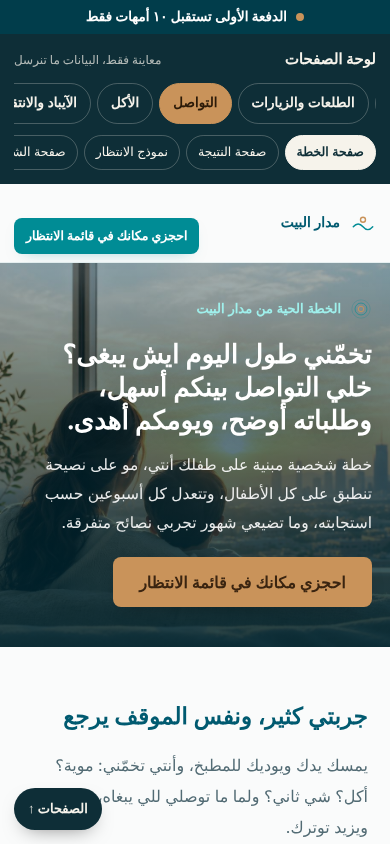
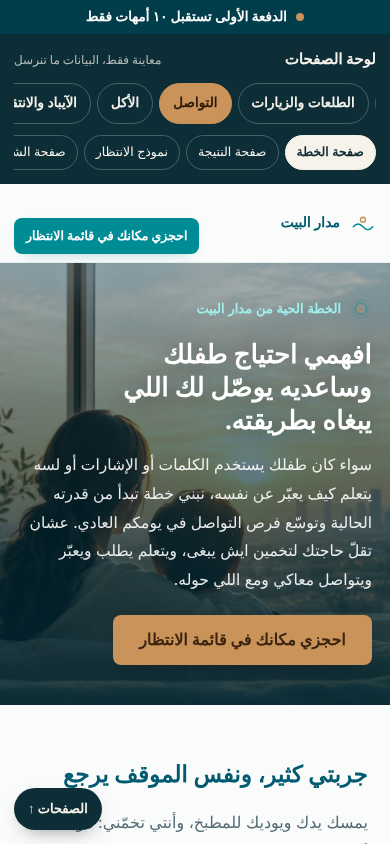
Apply client stage cards and per-situation headlines/subheadlines; no line ends with a comma; growth list marked as example
Claude-Session: https://claude.ai/code/session_01AkVcjsgEk6X3LzvvZDMGzU

Changed region(s): [[0.0, 0.3081, 1.0, 0.8626], [0.1538, 0.8934, 0.9538, 1.0], [0.8923, 0.3081, 0.9231, 0.3389]]

diff --git a/board_pages.html b/board_pages.html
@@ -550,6 +550,7 @@ body.cap-on .lp-nav{top:34px}
 
 /* curriculum: stages + direction of growth */
 .lp-lede.lp-maxp{margin-inline:auto;max-width:52ch}
+.lp-head,.lp-h,.lp-stage h3{text-wrap:balance}
 .lp-stages{list-style:none;padding:0;margin:26px auto 0;max-width:900px;display:grid;grid-template-columns:repeat(3,1fr);gap:16px;counter-reset:st}
 .lp-stage{background:var(--card);border:1px solid var(--line);border-top:3px solid var(--teal);border-radius:16px;padding:18px 18px 16px}
 .lp-stage-k{display:inline-block;font-family:"El Messiri";font-weight:700;font-size:12.5px;color:var(--gold-deep);background:rgba(201,147,90,.14);border-radius:999px;padding:2px 11px;margin-bottom:8px}
@@ -608,31 +609,38 @@ const STANDALONE_LANDING = false;
    ============================================================ */
 const FOCUS = {
   A:{ key:'sleep',
-      head:'كل ليلة نفس المعركة؟ خلي وقت النوم أهدى، وروتينه أوضح، ولياليكم أخف.',
+      head:'ليالي أهدأ<br>ووقت نوم ما يستنزفك كل ليلة.',
+      sub:'بدل ما تجربي نصيحة جديدة كل ليلة، نبني لك طريقة تناسب نوم طفلك وروتينه واحتياجه. نبدأ من اللي يصعّب عليه النوم، ونراجع الخطة كل أسبوعين عشان تعرفي على ايش نكمّل وايش نعدّل، إلى أن يصير وقت النوم أهدأ عليكم.',
       problem:'كل ليلة نفس القصة: البيجاما، والسرير، وبعدها ساعة وأكثر وأنتي تحاولي. جربتي نصيحة من مقطع، وروتين من حساب ثاني، وبعد كم ليلة رجع كل شي مثل ما كان. وآخر اليوم ما يبقى لك وقت ولا طاقة لنفسك.',
       invite:'تخيلي يجي وقت النوم وأنتي عارفة خطوتك، بدل ما تجربي شي جديد كل ليلة.' },
   B:{ key:'outings',
-      head:'كل عزيمة صارت همّ؟ روحي وأنتي مرتاحة، واستمتعي بوقتك مع أهلك.',
+      head:'خلي العزايم وقت تستمتعوا فيه مع أهلك<br>مو مصدر قلق قبل كل زيارة.',
+      sub:'جهّزي طفلك للطلعات والزيارات بطريقة تناسبه هو، نرتّب خطوات عملية للمواقف اللي تتعبكم، ونطوّرها مع كل تجربة، عشان تصير الزيارات جزء من حياتكم بدل ما تكون مصدر قلق قبل ما تبدأ.',
       problem:'قبل العزيمة بيوم وأنتي تفكري: كيف بيكون؟ ومتى نرجع؟ وأول ما تدخلوا، تقضي الوقت تلحقيه من غرفة لغرفة، والسوالف تفوتك. وترجعي البيت تعبانة، وكأنك ما شفتي أهلك.',
       invite:'تخيلي تجهزي للعزيمة وأنتي عارفة ايش يساعد طفلك، بدل ما تروحي وأنتي شايلة همّ.' },
   C:{ key:'communication',
-      head:'تخمّني طول اليوم ايش يبغى؟ خلي التواصل بينكم أسهل، وطلباته أوضح، ويومكم أهدى.',
+      head:'افهمي احتياج طفلك<br>وساعديه يوصّل لك اللي يبغاه بطريقته.',
+      sub:'سواء كان طفلك يستخدم الكلمات أو الإشارات أو لسه يتعلم كيف يعبّر عن نفسه، نبني خطة تبدأ من قدرته الحالية وتوسّع فرص التواصل في يومكم العادي. عشان تقلّ حاجتك لتخمين ايش يبغى، ويتعلم يطلب ويعبّر ويتواصل معاكي ومع اللي حوله.',
       problem:'يمسك يدك ويوديك للمطبخ، وأنتي تخمّني: موية؟ أكل؟ شي ثاني؟ ولما ما توصلي للي يبغاه، يزيد بكاه ويزيد توترك.',
       invite:'تخيلي يكون عندك طريقة واضحة تساعدي فيها طفلك يوصل لك اللي يبغاه، بدل التخمين طول اليوم.' },
   D:{ key:'food',
-      head:'نفس الثلاث أكلات كل يوم؟ خلي الأكل الجديد يدخل صحنه بالتدريج، وبدون معارك.',
+      head:'خيارات أكل أكثر<br>ووجبات ما تتحول لمعركة على كل لقمة.',
+      sub:'مو مطلوب من طفلك يتقبل كل الأكلات دفعة واحدة، ولا منك تدخلي في معركة معاه على كل وجبة. نبني خطوات تبدأ من الأكلات اللي يتقبلها حاليًا، ونعرّفه على خيارات جديدة بالتدريج، بما يناسب تقبّله واحتياجه.',
       problem:'نفس الأكلات كل يوم، وأي أكل جديد تحطيه في صحنه يرفضه. تحاولي تقنعيه، وتحاولي تخبي الجديد بين اللي يحبه، ووقت الأكل نفسه صار همّ.',
       invite:'تخيلي يكون عندك خطوات واضحة لوقت الأكل، تحافظ على أكلاته المعروفة وتدخّل الجديد بالتدريج.' },
   E:{ key:'transitions',
-      head:'كل ما تطفي الآيباد تبدأ معركة؟ خلي الانتقال أوضح له، وأسهل عليكم.',
+      head:'طفلك يطفي الآيباد وينتقل للي بعده<br>بدون ما تبدأ معركة كل مرة.',
+      sub:'نبني طريقة تناسب طفلك في استخدام الآيباد وإطفائه والانتقال للنشاط اللي بعده. ونشتغل على المواقف اللي تتكرر عندكم، عشان ما تضطري تعيدي نفس المواجهة من البداية كل ما جا وقت إطفاء الآيباد.',
       problem:'تقولي له خلاص نطفي الآيباد، وأنتي عارفة ايش بيصير بعدها. جربتي تنبهيه قبل بخمس دقايق، وجربتي العد، وكل مرة تنتهي بنفس الطريقة. وصرتي تأجلي الإطفاء عشان تتجنبي اللي بعده.',
       invite:'تخيلي تطفي الآيباد وأنتي عارفة كيف تجهزيه للي بعده، بدل ما تستعدي لمعركة.' },
   F:{ key:'emotions',
-      head:'طول اليوم وأنتي على أعصابك؟ خلي يومكم أهدى، وتعاملي مع انفعاله وأنتي عارفة ايش تسوي.',
+      head:'انفعالات أقل حدّة<br>وتعرفي كيف تتعاملي مع طفلك وقتها.',
+      sub:'بدل ما تركّزي بس على إيقاف الانفعال بعد ما يبدأ، نفهم مع بعض ايش يضغط على طفلك خلال يومه، ونتعرف على العلامات اللي تسبق انفعاله. بعدها نبني خطوات تساعدك تخففي الضغوط، وتسانديه وقت الانفعال وبعده، بما يناسب احتياجه.',
       problem:'يصحى متضايق، ويرمي الأغراض، وما يهدأ بسهولة. وأنتي طول اليوم تحاولي تتوقعي ايش بيضايقه بعدها، وكل يوم تحسي إنك على أعصابك.',
       invite:'تخيلي تعرفي ايش يسبق انفعاله، وعندك خطوات واضحة تساعديه فيها، بدل ما تكوني على أعصابك طول اليوم.' },
   default:{ key:'',
-      head:'نفس المواقف تتكرر كل يوم؟ وقفي الحلول المتفرقة، وابدئي بخطة تناسب طفلك.',
+      head:'افهمي طفلك أكثر<br>واعرفي كيف تساعديه في حياته اليومية.',
+      sub:'مو لازم تنتظري إلين تظهر مشكلة كبيرة عشان تبدئي. نبدأ من شخصية طفلك واهتماماته وطريقته في التفاعل، ونفهم ايش يساعده يرتاح ويتواصل ويتعلم. بعدها نبني خطة تبدأ من أكثر شي يحتاج نشتغل عليه الآن، وتتطور مع طفلك ومع حياتكم اليومية.',
       problem:'نفس المواقف تتكرر كل يوم. تجربي نصيحة من مقطع، وطريقة من حساب ثاني، وبعد كم يوم ترجعي لنفس النقطة. وكل مرة تبدأي من الصفر.',
       invite:'تخيلي يكون عندك خطة واضحة للموقف اللي يشغلك، تعرفي فيها خطوتك الجاية وما تبدأي من الصفر كل مرة.' }
 };
@@ -646,39 +654,39 @@ const FOCUS = {
    ============================================================ */
 const CURRICULUM = {
   A:{ area:'وقت النوم',
-      stages:[['نرتب الساعة اللي قبل النوم','ترتيب ثابت كل ليلة، حركة بدري في اليوم، وهدوء أكثر آخر الليل.'],
-              ['نثبت الوقت والمكان','نفس البداية كل ليلة، ونفس الطريقة مع أي أحد ينومه.'],
-              ['القيام بالليل والليالي الصعبة','رد جاهز لما يقوم، وخطة لليلة اللي يخرب فيها كل شي.']],
+      stages:[['من بداية روتين النوم إلى السرير بهدوء أكثر','نرتّب روتين النوم بما يناسب يوم طفلك واحتياجه، عشان تقل مقاومته لوقت النوم وما تضطري تدخلي معاه في مفاوضات طويلة كل ليلة.'],
+              ['نفس روتين النوم مع كل اللي ينوّموه','طريقة واضحة يتبعها الأب والجدة وأي شخص ينوّم طفلك، عشان يقدر يتبع نفس الروتين حتى لو ما كنتي أنتي اللي تنوّميه.'],
+              ['طفلك يرجع ينام بعد ما يصحى بالليل','نحدد كيف تتعاملي مع استيقاظ طفلك بالليل، ونرتّب خطوات تساعده يرجع للنوم بدل ما تطول فترة صحوته وتتحول لباقي الليل.']],
       growth:['التحضير للنوم يمشي بنفس الخطوات كل ليلة','ينام في سريره هو','يقوم بالليل أقل من قبل','الوقت من "يلا ننام" لين ينام يقصر','الساعة اللي قبل النوم ما عادت أصعب ساعة في يومك'] },
   B:{ area:'الطلعات والزيارات',
-      stages:[['نبدأ بالمكان الأسهل','زيارة قصيرة، لمكان يعرفه، ووقت طلعة متفق عليه.'],
-              ['نطول الوقت ونوسع الأماكن','أماكن أقل ألفة، ناس أكثر، ووقت أطول.'],
-              ['المناسبات الطويلة','والأماكن اللي ما تقدري تتحكمي فيها، والرد لما يتعب في نصها.']],
+      stages:[['تطلعوا من البيت بدون ما تنتهي الطلعة بسرعة','نبدأ بأماكن مألوفة وطلعات قصيرة، ونجهّز طفلك للخروج بالتدريج، عشان يقدر يقضي وقت أطول برا البيت وتستمتعوا بطلعتكم.'],
+              ['طفلك يتأقلم مع أماكن وأشخاص جدد','نوسّع تجارب طفلك بالتدريج، من أماكن وأشخاص يعرفهم إلى أماكن جديدة وعدد أكبر من الناس، عشان تصير الطلعات والتجارب الجديدة أسهل عليه.'],
+              ['استعداد للعزايم والمناسبات الطويلة','نجهّز طريقة تناسب الزيارات الطويلة والأماكن اللي ما تقدري تتحكمي في تفاصيلها، عشان تقدري تكمّلي الزيارة وتتعاملوا مع المواقف الصعبة بثقة أكبر.']],
       growth:['يدخل المكان بدون ما يوقف وقت طويل عند الباب','يقعد في المناسبة وقت أطول قبل ما يطلب يرجع','يقول إنه تعب بطريقة متفقين عليها، بدل ما ينهار','الطلعة من المكان صارت أسهل من قبل','ما عدتي ترتبي يومك على أساس تتجنبي الطلعات'] },
   C:{ area:'التواصل',
-      stages:[['نفتح له مواقف يطلب فيها','ما تسبقيه للي يبغاه، وتعطيه لحظة يطلب قبل ما تعطيه.'],
-              ['ننقلها لناس ثانية','أبوه، جدته، أي أحد حوله، بنفس الطريقة.'],
-              ['يبدأ هو','حتى في المواقف اللي يكون فيها تعبان أو متضايق.']],
+      stages:[['طفلك يقدر يطلب اللي يبغاه ويوصّل احتياجه','نبني طريقة تواصل تناسب قدرة طفلك الحالية، سواء بالكلام أو الإشارات أو غيرها، عشان يقدر يطلب أكله أو لعبته أو مساعدتك بدل ما يضطر يعبّر عن احتياجه بالبكاء أو الصراخ.'],
+              ['طفلك يقدر يوصّل احتياجه لأكثر من شخص','نساعد الأب والجدة والإخوان يتعرفوا على طريقة تواصل طفلك ويستخدموها معاه، عشان يقدر يوصّل لهم احتياجه ويتواصل مع أكثر من شخص في حياته اليومية.'],
+              ['طفلك يبدأ يطلب ويتواصل من نفسه','نرتّب مواقف يومية تعطي طفلك فرص يبدأ فيها التواصل من نفسه، بدال ما ينتظر سؤالك أو محاولتك تفهمي ايش يبغى كل مرة.']],
       growth:['يطلب منك اللي يبغاه بكلمة أو إشارة، مو بس يسحب يدك','يبدأ هو الكلام أو الإشارة، مو بس يرد','يحاول مرة ثانية إذا ما فهمتيه من أول مرة','الكلمات أو الإشارات اللي يستخدمها لحاله تزيد','صرتي تعرفي إنه تعبان قبل ما يبكي'] },
   D:{ area:'الأكل',
-      stages:[['نبدأ من أكلاته المعروفة','الطاولة وجو الأكل، قبل الأكل نفسه.'],
-              ['نقرب الجديد بدون ما نطلب منه ياكله','موجود قدامه، يشوفه، يلمسه، بدون ضغط يذوقه.'],
-              ['الذوق، والأكل برا البيت','بيت الأهل، والمدرسة، والمطعم.']],
+      stages:[['وجبات تناسب طفلك وتقلل الضغط وقت الأكل','نبدأ من الأكلات اللي يتقبلها طفلك، ونرتّب الوجبة وطريقة تقديم الأكل بما يناسبه، عشان تقدري تقدمي له أكله بدون ضغط ومحاولات متواصلة لإقناعه بالأكل.'],
+              ['طفلك يتعرّف على أكلات جديدة ويتقبل وجودها','نقدّم الأكلات الجديدة بالتدريج، ونبدأ بتعويد طفلك على رؤيتها ولمسها والتعامل معاها قبل ما نطلب منه يتذوقها، عشان تزيد ألفته معاها بدون ما يحس إنه مجبر يجربها.'],
+              ['طفلك يتقبل خيارات أكل أكثر خارج البيت','نبني على اللي يتقبله طفلك في البيت، ونشتغل على نقل التجربة لمواقف ثانية مثل بيت الأهل والمدرسة والمطعم، عشان تزيد فرص تقبّله للأكل في أماكن مختلفة.']],
       growth:['يقعد على الطاولة والأكل الجديد قدامه، حتى لو ما أكله','يلمسه أو يقربه من وجهه','الأكلات اللي يقبلها تزيد، ولو وحدة','وقت الأكل يخلص بدون معركة','ما عدتي تطبخي وجبتين'] },
   E:{ area:'الانتقال وإطفاء الآيباد',
-      stages:[['نخلي النهاية متوقعة','وقت معروف، تنبيه ثابت، وشي جاهز بعدها.'],
-              ['نوحد الطريقة بين الكبار','وننقلها لانتقالات ثانية في يومه.'],
-              ['الانتقال الأصعب','ولحظة الرفض لما تصير رغم كل شي.']],
+      stages:[['طفلك يطفي الآيباد وينتقل للنشاط اللي بعده بمقاومة أقل','نرتّب وقت استخدام الآيباد، وطريقة التنبيه قبل إطفائه، والنشاط اللي يجي بعده، عشان يعرف طفلك ايش بيصير ويكون الانتقال أسهل عليه.'],
+              ['طفلك يتقبل إطفاء الآيباد مع أشخاص مختلفين','نبني طريقة واضحة لإطفاء الآيباد والتعامل مع الانتقال للنشاط اللي بعده، عشان ما تتكرر نفس المواجهة كل مرة يتغير فيها الشخص المسؤول عنه.'],
+              ['استعداد للانتقالات الأصعب','نشتغل على الانتقالات اللي تسبب لكم أكبر صعوبة، مثل إيقاف اللعب أو الخروج من البيت أو وقت الاستحمام، عشان يقدر طفلك ينتقل من نشاط للثاني بمقاومة أقل.']],
       growth:['يسمع التنبيه ويكمل بدون توتر','يوقف بنفسه، حتى لو بعد تردد','الرفض صار أقصر من قبل','يرجع لحاله أسرع بعد الانتقال الصعب','لحظة إطفاء الآيباد ما عاد فيها جدال كل مرة'] },
   F:{ area:'الغضب والانفعال',
-      stages:[['نخفف حمل يومه','النوم، والحركة، والشاشات، ويوم متوقع أكثر.'],
-              ['نشوف العلامة قبل الانفجار','ونعطيه طريقة يعبر فيها قبلها.'],
-              ['اللحظة نفسها، والرجوع بعدها','رد ثابت، وطريقة ترجعوا فيها لبعض.']],
+      stages:[['نخفف الضغوط اللي تخلي طفلك ينفعل خلال اليوم','نراجع تفاصيل يوم طفلك، مثل النوم والشاشات والأنشطة، ونحدد الأشياء اللي تزيد الضغط عليه، عشان نعدّلها ونخفف تراكم التوتر اللي يسبق الانفعال.'],
+              ['طفلك يعبّر عن انزعاجه قبل ما يوصل للصراخ','نتعرف على العلامات اللي تظهر قبل انفعال طفلك، ونبني طرق تساعده يعبّر عن انزعاجه أو احتياجه بدري، قبل ما يوصل الموقف للصراخ.'],
+              ['طفلك يتجاوز نوبات الانفعال ويرجع ليومه','نرتّب خطوات تتعاملي فيها مع طفلك وقت الانفعال وبعده، عشان تساعديه يهدأ ويتجاوز الموقف ويرجع لنشاطه بدل ما يظل أثره مستمر على باقي يومكم.']],
       growth:['تشوفي علامة عليه قبل ما ينفجر','يعبر بكلمة أو إشارة قبل ما يوصل للصراخ','الانفجار صار يخلص أسرع','يرجع لحاله بدون ما ياخذ اليوم كله','تحسي إن الموقف جاي قبل ما يصير'] },
   default:{ area:'يومكم',
-      stages:[['نبني وقت ثابت بدون طلبات','وقت كل يوم تكونوا فيه مع بعض، يرتاح عليه يومكم كله.'],
-              ['نمسك النمط','ايش اللي يخلي اليوم الحلو حلو، ونكرره بقصد.'],
-              ['نختار التحدي اللي يستاهل','ونشتغل عليه بخطة خاصة فيه.']],
+      stages:[['تعرفي كيف تدخلي عالم طفلك وتلفتي انتباهه','نبدأ من الأشياء اللي تجذب طفلك، ونتعرف على الطريقة اللي تخليه يتفاعل معاكي ويستمتع بوجودك، عشان تقدري تبني معاه لحظات تواصل.'],
+              ['تعرفي ايش يخلي أيام طفلك أسهل','نراجع الأيام والمواقف اللي يكون فيها طفلك مرتاح ومتفاعل أكثر، ونحدد ايش يساعدها تمشي بشكل أفضل، عشان نقلل المواقف اللي تصعّب يومكم وما يكون اليوم الحلو مجرد صدفة.'],
+              ['نبدأ بالموقف اللي يتعبكم أكثر','نحدد أكثر موقف يسبب لكم ضغط في يومكم، ونبني له خطة بخطوات تناسب طفلك وظروف بيتكم، عشان تعرفي ايش تسوي في الموقف من بدايته، وكيف تتعاملي مع أصعب لحظاته، وايش الخطوة اللي بعدها.']],
       growth:['في وقت كل يوم تكونوا فيه مع بعض بدون طلبات','يومه صار متوقع أكثر','يطلب منك أشياء أكثر من قبل','المواقف الصعبة في اليوم صارت أقل','صار في وقت في يومك لنفسك'] }
 };
 const STAGE_LABELS = ['أول شي','بعدها','وبعدها'];
@@ -692,8 +700,8 @@ function curriculumHTML(key){
         ${c.stages.map(([t,d],i)=>`<li class="lp-stage"><span class="lp-stage-k">${STAGE_LABELS[i]}</span><h3>${t}</h3><p>${d}</p></li>`).join('')}
       </ol>
       <div class="lp-growth">
-        <h3>اتجاه النمو</h3>
-        <p class="lp-growth-sub">علامات إن الخطة ماشية في الاتجاه الصح. مو جدول، ومو لازم تجي بالترتيب.</p>
+        <h3>اتجاه النمو (مثال)</h3>
+        <p class="lp-growth-sub">هذي أمثلة. اتجاه النمو لطفلك يتحدد من إجاباتك على الأسئلة، ويختلف من طفل لطفل، وما يمشي بجدول.</p>
         <ul>${g}</ul>
       </div>
       <p class="lp-pull lp-pull-c">الترتيب والخطوات مبنية على طفلك أنتي.</p>`;
@@ -1389,6 +1397,9 @@ const CTA_LABEL = "احجزي مكانك في قائمة الانتظار";
 /* Owner placeholders like [للتأكيد: ...] are shown as-is, highlighted. */
 const markTbc = (h)=> h.replace(/\[للتأكيد:[^\]]*\]/g, m=>`<span class="tbc">${m}</span>`);
 
+/* keep the last two words of each headline line together (no single orphan word) */
+const headHTML = (h)=> String(h).split('<br>').map(seg=>seg.replace(/ ([^ ]+)$/,'\u00a0$1')).join('<br>');
+
 function problemHTML(key, sitFree){
   const f = FOCUS[key] || FOCUS.default;
   const mine = sitFree ? `<p class="lp-p lp-herline">${G_FREE_LINE(escapeHtml(sitFree))}</p>` : '';
@@ -1398,7 +1409,7 @@ function problemHTML(key, sitFree){
 function landingHTML(ctx){
   const c = Object.assign({key:'default', sub:'standard', sitFree:'', q15:''}, ctx||{});
   const f = FOCUS[c.key] || FOCUS.default;
-  const sub = SUBS[c.sub] || SUBS.standard;
+  const sub = f.sub || SUBS[c.sub] || SUBS.standard;
   // every CTA opens the on-page waitlist form (CONFIG.waitlistUrl is legacy and unused)
   const cta = (cls='') => `<button type="button" class="lp-cta ${cls}" data-wl>${CTA_LABEL}</button>`;
   const chk = `<svg viewBox="0 0 24 24" fill="none" stroke="#008C95" stroke-width="2.6" stroke-linecap="round" stroke-linejoin="round"><path d="M20 6 9 17l-5-5"/></svg>`;
@@ -1465,7 +1476,7 @@ function landingHTML(ctx){
       </div>
       <div class="lp-hero-inner">
         <div class="lp-eyebrow">${SVG.ripple('rp')}<span>الخطة الحية من مدار البيت</span></div>
-        <h1 class="lp-head" id="lp-head">${f.head}</h1>
+        <h1 class="lp-head" id="lp-head">${headHTML(f.head)}</h1>
         <p class="lp-support" id="lp-sub">${sub}</p>
         ${cta('on-photo hero')}
       </div>
@@ -1614,8 +1625,8 @@ function landingHTML(ctx){
 function applyLanding(key, sub, sitFree){
   const f = FOCUS[key] || FOCUS.default;
   const h = document.getElementById('lp-head'), s = document.getElementById('lp-sub'), p = document.getElementById('lp-problem');
-  if(h) h.innerHTML = f.head;
-  if(s) s.innerHTML = SUBS[sub] || SUBS.standard;
+  if(h) h.innerHTML = headHTML(f.head);
+  if(s) s.innerHTML = f.sub || SUBS[sub] || SUBS.standard;
   if(p) p.innerHTML = problemHTML(key, sitFree||'');
   const cu = document.getElementById('lp-curriculum');
   if(cu) cu.innerHTML = curriculumHTML(key);

diff --git a/index.html b/index.html
@@ -550,6 +550,7 @@ body.cap-on .lp-nav{top:34px}
 
 /* curriculum: stages + direction of growth */
 .lp-lede.lp-maxp{margin-inline:auto;max-width:52ch}
+.lp-head,.lp-h,.lp-stage h3{text-wrap:balance}
 .lp-stages{list-style:none;padding:0;margin:26px auto 0;max-width:900px;display:grid;grid-template-columns:repeat(3,1fr);gap:16px;counter-reset:st}
 .lp-stage{background:var(--card);border:1px solid var(--line);border-top:3px solid var(--teal);border-radius:16px;padding:18px 18px 16px}
 .lp-stage-k{display:inline-block;font-family:"El Messiri";font-weight:700;font-size:12.5px;color:var(--gold-deep);background:rgba(201,147,90,.14);border-radius:999px;padding:2px 11px;margin-bottom:8px}
@@ -608,31 +609,38 @@ const STANDALONE_LANDING = false;
    ============================================================ */
 const FOCUS = {
   A:{ key:'sleep',
-      head:'كل ليلة نفس المعركة؟ خلي وقت النوم أهدى، وروتينه أوضح، ولياليكم أخف.',
+      head:'ليالي أهدأ<br>ووقت نوم ما يستنزفك كل ليلة.',
+      sub:'بدل ما تجربي نصيحة جديدة كل ليلة، نبني لك طريقة تناسب نوم طفلك وروتينه واحتياجه. نبدأ من اللي يصعّب عليه النوم، ونراجع الخطة كل أسبوعين عشان تعرفي على ايش نكمّل وايش نعدّل، إلى أن يصير وقت النوم أهدأ عليكم.',
       problem:'كل ليلة نفس القصة: البيجاما، والسرير، وبعدها ساعة وأكثر وأنتي تحاولي. جربتي نصيحة من مقطع، وروتين من حساب ثاني، وبعد كم ليلة رجع كل شي مثل ما كان. وآخر اليوم ما يبقى لك وقت ولا طاقة لنفسك.',
       invite:'تخيلي يجي وقت النوم وأنتي عارفة خطوتك، بدل ما تجربي شي جديد كل ليلة.' },
   B:{ key:'outings',
-      head:'كل عزيمة صارت همّ؟ روحي وأنتي مرتاحة، واستمتعي بوقتك مع أهلك.',
+      head:'خلي العزايم وقت تستمتعوا فيه مع أهلك<br>مو مصدر قلق قبل كل زيارة.',
+      sub:'جهّزي طفلك للطلعات والزيارات بطريقة تناسبه هو، نرتّب خطوات عملية للمواقف اللي تتعبكم، ونطوّرها مع كل تجربة، عشان تصير الزيارات جزء من حياتكم بدل ما تكون مصدر قلق قبل ما تبدأ.',
       problem:'قبل العزيمة بيوم وأنتي تفكري: كيف بيكون؟ ومتى نرجع؟ وأول ما تدخلوا، تقضي الوقت تلحقيه من غرفة لغرفة، والسوالف تفوتك. وترجعي البيت تعبانة، وكأنك ما شفتي أهلك.',
       invite:'تخيلي تجهزي للعزيمة وأنتي عارفة ايش يساعد طفلك، بدل ما تروحي وأنتي شايلة همّ.' },
   C:{ key:'communication',
-      head:'تخمّني طول اليوم ايش يبغى؟ خلي التواصل بينكم أسهل، وطلباته أوضح، ويومكم أهدى.',
+      head:'افهمي احتياج طفلك<br>وساعديه يوصّل لك اللي يبغاه بطريقته.',
+      sub:'سواء كان طفلك يستخدم الكلمات أو الإشارات أو لسه يتعلم كيف يعبّر عن نفسه، نبني خطة تبدأ من قدرته الحالية وتوسّع فرص التواصل في يومكم العادي. عشان تقلّ حاجتك لتخمين ايش يبغى، ويتعلم يطلب ويعبّر ويتواصل معاكي ومع اللي حوله.',
       problem:'يمسك يدك ويوديك للمطبخ، وأنتي تخمّني: موية؟ أكل؟ شي ثاني؟ ولما ما توصلي للي يبغاه، يزيد بكاه ويزيد توترك.',
       invite:'تخيلي يكون عندك طريقة واضحة تساعدي فيها طفلك يوصل لك اللي يبغاه، بدل التخمين طول اليوم.' },
   D:{ key:'food',
-      head:'نفس الثلاث أكلات كل يوم؟ خلي الأكل الجديد يدخل صحنه بالتدريج، وبدون معارك.',
+      head:'خيارات أكل أكثر<br>ووجبات ما تتحول لمعركة على كل لقمة.',
+      sub:'مو مطلوب من طفلك يتقبل كل الأكلات دفعة واحدة، ولا منك تدخلي في معركة معاه على كل وجبة. نبني خطوات تبدأ من الأكلات اللي يتقبلها حاليًا، ونعرّفه على خيارات جديدة بالتدريج، بما يناسب تقبّله واحتياجه.',
       problem:'نفس الأكلات كل يوم، وأي أكل جديد تحطيه في صحنه يرفضه. تحاولي تقنعيه، وتحاولي تخبي الجديد بين اللي يحبه، ووقت الأكل نفسه صار همّ.',
       invite:'تخيلي يكون عندك خطوات واضحة لوقت الأكل، تحافظ على أكلاته المعروفة وتدخّل الجديد بالتدريج.' },
   E:{ key:'transitions',
-      head:'كل ما تطفي الآيباد تبدأ معركة؟ خلي الانتقال أوضح له، وأسهل عليكم.',
+      head:'طفلك يطفي الآيباد وينتقل للي بعده<br>بدون ما تبدأ معركة كل مرة.',
+      sub:'نبني طريقة تناسب طفلك في استخدام الآيباد وإطفائه والانتقال للنشاط اللي بعده. ونشتغل على المواقف اللي تتكرر عندكم، عشان ما تضطري تعيدي نفس المواجهة من البداية كل ما جا وقت إطفاء الآيباد.',
       problem:'تقولي له خلاص نطفي الآيباد، وأنتي عارفة ايش بيصير بعدها. جربتي تنبهيه قبل بخمس دقايق، وجربتي العد، وكل مرة تنتهي بنفس الطريقة. وصرتي تأجلي الإطفاء عشان تتجنبي اللي بعده.',
       invite:'تخيلي تطفي الآيباد وأنتي عارفة كيف تجهزيه للي بعده، بدل ما تستعدي لمعركة.' },
   F:{ key:'emotions',
-      head:'طول اليوم وأنتي على أعصابك؟ خلي يومكم أهدى، وتعاملي مع انفعاله وأنتي عارفة ايش تسوي.',
+      head:'انفعالات أقل حدّة<br>وتعرفي كيف تتعاملي مع طفلك وقتها.',
+      sub:'بدل ما تركّزي بس على إيقاف الانفعال بعد ما يبدأ، نفهم مع بعض ايش يضغط على طفلك خلال يومه، ونتعرف على العلامات اللي تسبق انفعاله. بعدها نبني خطوات تساعدك تخففي الضغوط، وتسانديه وقت الانفعال وبعده، بما يناسب احتياجه.',
       problem:'يصحى متضايق، ويرمي الأغراض، وما يهدأ بسهولة. وأنتي طول اليوم تحاولي تتوقعي ايش بيضايقه بعدها، وكل يوم تحسي إنك على أعصابك.',
       invite:'تخيلي تعرفي ايش يسبق انفعاله، وعندك خطوات واضحة تساعديه فيها، بدل ما تكوني على أعصابك طول اليوم.' },
   default:{ key:'',
-      head:'نفس المواقف تتكرر كل يوم؟ وقفي الحلول المتفرقة، وابدئي بخطة تناسب طفلك.',
+      head:'افهمي طفلك أكثر<br>واعرفي كيف تساعديه في حياته اليومية.',
+      sub:'مو لازم تنتظري إلين تظهر مشكلة كبيرة عشان تبدئي. نبدأ من شخصية طفلك واهتماماته وطريقته في التفاعل، ونفهم ايش يساعده يرتاح ويتواصل ويتعلم. بعدها نبني خطة تبدأ من أكثر شي يحتاج نشتغل عليه الآن، وتتطور مع طفلك ومع حياتكم اليومية.',
       problem:'نفس المواقف تتكرر كل يوم. تجربي نصيحة من مقطع، وطريقة من حساب ثاني، وبعد كم يوم ترجعي لنفس النقطة. وكل مرة تبدأي من الصفر.',
       invite:'تخيلي يكون عندك خطة واضحة للموقف اللي يشغلك، تعرفي فيها خطوتك الجاية وما تبدأي من الصفر كل مرة.' }
 };
@@ -646,39 +654,39 @@ const FOCUS = {
    ============================================================ */
 const CURRICULUM = {
   A:{ area:'وقت النوم',
-      stages:[['نرتب الساعة اللي قبل النوم','ترتيب ثابت كل ليلة، حركة بدري في اليوم، وهدوء أكثر آخر الليل.'],
-              ['نثبت الوقت والمكان','نفس البداية كل ليلة، ونفس الطريقة مع أي أحد ينومه.'],
-              ['القيام بالليل والليالي الصعبة','رد جاهز لما يقوم، وخطة لليلة اللي يخرب فيها كل شي.']],
+      stages:[['من بداية روتين النوم إلى السرير بهدوء أكثر','نرتّب روتين النوم بما يناسب يوم طفلك واحتياجه، عشان تقل مقاومته لوقت النوم وما تضطري تدخلي معاه في مفاوضات طويلة كل ليلة.'],
+              ['نفس روتين النوم مع كل اللي ينوّموه','طريقة واضحة يتبعها الأب والجدة وأي شخص ينوّم طفلك، عشان يقدر يتبع نفس الروتين حتى لو ما كنتي أنتي اللي تنوّميه.'],
+              ['طفلك يرجع ينام بعد ما يصحى بالليل','نحدد كيف تتعاملي مع استيقاظ طفلك بالليل، ونرتّب خطوات تساعده يرجع للنوم بدل ما تطول فترة صحوته وتتحول لباقي الليل.']],
       growth:['التحضير للنوم يمشي بنفس الخطوات كل ليلة','ينام في سريره هو','يقوم بالليل أقل من قبل','الوقت من "يلا ننام" لين ينام يقصر','الساعة اللي قبل النوم ما عادت أصعب ساعة في يومك'] },
   B:{ area:'الطلعات والزيارات',
-      stages:[['نبدأ بالمكان الأسهل','زيارة قصيرة، لمكان يعرفه، ووقت طلعة متفق عليه.'],
-              ['نطول الوقت ونوسع الأماكن','أماكن أقل ألفة، ناس أكثر، ووقت أطول.'],
-              ['المناسبات الطويلة','والأماكن اللي ما تقدري تتحكمي فيها، والرد لما يتعب في نصها.']],
+      stages:[['تطلعوا من البيت بدون ما تنتهي الطلعة بسرعة','نبدأ بأماكن مألوفة وطلعات قصيرة، ونجهّز طفلك للخروج بالتدريج، عشان يقدر يقضي وقت أطول برا البيت وتستمتعوا بطلعتكم.'],
+              ['طفلك يتأقلم مع أماكن وأشخاص جدد','نوسّع تجارب طفلك بالتدريج، من أماكن وأشخاص يعرفهم إلى أماكن جديدة وعدد أكبر من الناس، عشان تصير الطلعات والتجارب الجديدة أسهل عليه.'],
+              ['استعداد للعزايم والمناسبات الطويلة','نجهّز طريقة تناسب الزيارات الطويلة والأماكن اللي ما تقدري تتحكمي في تفاصيلها، عشان تقدري تكمّلي الزيارة وتتعاملوا مع المواقف الصعبة بثقة أكبر.']],
       growth:['يدخل المكان بدون ما يوقف وقت طويل عند الباب','يقعد في المناسبة وقت أطول قبل ما يطلب يرجع','يقول إنه تعب بطريقة متفقين عليها، بدل ما ينهار','الطلعة من المكان صارت أسهل من قبل','ما عدتي ترتبي يومك على أساس تتجنبي الطلعات'] },
   C:{ area:'التواصل',
-      stages:[['نفتح له مواقف يطلب فيها','ما تسبقيه للي يبغاه، وتعطيه لحظة يطلب قبل ما تعطيه.'],
-              ['ننقلها لناس ثانية','أبوه، جدته، أي أحد حوله، بنفس الطريقة.'],
-              ['يبدأ هو','حتى في المواقف اللي يكون فيها تعبان أو متضايق.']],
+      stages:[['طفلك يقدر يطلب اللي يبغاه ويوصّل احتياجه','نبني طريقة تواصل تناسب قدرة طفلك الحالية، سواء بالكلام أو الإشارات أو غيرها، عشان يقدر يطلب أكله أو لعبته أو مساعدتك بدل ما يضطر يعبّر عن احتياجه بالبكاء أو الصراخ.'],
+              ['طفلك يقدر يوصّل احتياجه لأكثر من شخص','نساعد الأب والجدة والإخوان يتعرفوا على طريقة تواصل طفلك ويستخدموها معاه، عشان يقدر يوصّل لهم احتياجه ويتواصل مع أكثر من شخص في حياته اليومية.'],
+              ['طفلك يبدأ يطلب ويتواصل من نفسه','نرتّب مواقف يومية تعطي طفلك فرص يبدأ فيها التواصل من نفسه، بدال ما ينتظر سؤالك أو محاولتك تفهمي ايش يبغى كل مرة.']],
       growth:['يطلب منك اللي يبغاه بكلمة أو إشارة، مو بس يسحب يدك','يبدأ هو الكلام أو الإشارة، مو بس يرد','يحاول مرة ثانية إذا ما فهمتيه من أول مرة','الكلمات أو الإشارات اللي يستخدمها لحاله تزيد','صرتي تعرفي إنه تعبان قبل ما يبكي'] },
   D:{ area:'الأكل',
-      stages:[['نبدأ من أكلاته المعروفة','الطاولة وجو الأكل، قبل الأكل نفسه.'],
-              ['نقرب الجديد بدون ما نطلب منه ياكله','موجود قدامه، يشوفه، يلمسه، بدون ضغط يذوقه.'],
-              ['الذوق، والأكل برا البيت','بيت الأهل، والمدرسة، والمطعم.']],
+      stages:[['وجبات تناسب طفلك وتقلل الضغط وقت الأكل','نبدأ من الأكلات اللي يتقبلها طفلك، ونرتّب الوجبة وطريقة تقديم الأكل بما يناسبه، عشان تقدري تقدمي له أكله بدون ضغط ومحاولات متواصلة لإقناعه بالأكل.'],
+              ['طفلك يتعرّف على أكلات جديدة ويتقبل وجودها','نقدّم الأكلات الجديدة بالتدريج، ونبدأ بتعويد طفلك على رؤيتها ولمسها والتعامل معاها قبل ما نطلب منه يتذوقها، عشان تزيد ألفته معاها بدون ما يحس إنه مجبر يجربها.'],
+              ['طفلك يتقبل خيارات أكل أكثر خارج البيت','نبني على اللي يتقبله طفلك في البيت، ونشتغل على نقل التجربة لمواقف ثانية مثل بيت الأهل والمدرسة والمطعم، عشان تزيد فرص تقبّله للأكل في أماكن مختلفة.']],
       growth:['يقعد على الطاولة والأكل الجديد قدامه، حتى لو ما أكله','يلمسه أو يقربه من وجهه','الأكلات اللي يقبلها تزيد، ولو وحدة','وقت الأكل يخلص بدون معركة','ما عدتي تطبخي وجبتين'] },
   E:{ area:'الانتقال وإطفاء الآيباد',
-      stages:[['نخلي النهاية متوقعة','وقت معروف، تنبيه ثابت، وشي جاهز بعدها.'],
-              ['نوحد الطريقة بين الكبار','وننقلها لانتقالات ثانية في يومه.'],
-              ['الانتقال الأصعب','ولحظة الرفض لما تصير رغم كل شي.']],
+      stages:[['طفلك يطفي الآيباد وينتقل للنشاط اللي بعده بمقاومة أقل','نرتّب وقت استخدام الآيباد، وطريقة التنبيه قبل إطفائه، والنشاط اللي يجي بعده، عشان يعرف طفلك ايش بيصير ويكون الانتقال أسهل عليه.'],
+              ['طفلك يتقبل إطفاء الآيباد مع أشخاص مختلفين','نبني طريقة واضحة لإطفاء الآيباد والتعامل مع الانتقال للنشاط اللي بعده، عشان ما تتكرر نفس المواجهة كل مرة يتغير فيها الشخص المسؤول عنه.'],
+              ['استعداد للانتقالات الأصعب','نشتغل على الانتقالات اللي تسبب لكم أكبر صعوبة، مثل إيقاف اللعب أو الخروج من البيت أو وقت الاستحمام، عشان يقدر طفلك ينتقل من نشاط للثاني بمقاومة أقل.']],
       growth:['يسمع التنبيه ويكمل بدون توتر','يوقف بنفسه، حتى لو بعد تردد','الرفض صار أقصر من قبل','يرجع لحاله أسرع بعد الانتقال الصعب','لحظة إطفاء الآيباد ما عاد فيها جدال كل مرة'] },
   F:{ area:'الغضب والانفعال',
-      stages:[['نخفف حمل يومه','النوم، والحركة، والشاشات، ويوم متوقع أكثر.'],
-              ['نشوف العلامة قبل الانفجار','ونعطيه طريقة يعبر فيها قبلها.'],
-              ['اللحظة نفسها، والرجوع بعدها','رد ثابت، وطريقة ترجعوا فيها لبعض.']],
+      stages:[['نخفف الضغوط اللي تخلي طفلك ينفعل خلال اليوم','نراجع تفاصيل يوم طفلك، مثل النوم والشاشات والأنشطة، ونحدد الأشياء اللي تزيد الضغط عليه، عشان نعدّلها ونخفف تراكم التوتر اللي يسبق الانفعال.'],
+              ['طفلك يعبّر عن انزعاجه قبل ما يوصل للصراخ','نتعرف على العلامات اللي تظهر قبل انفعال طفلك، ونبني طرق تساعده يعبّر عن انزعاجه أو احتياجه بدري، قبل ما يوصل الموقف للصراخ.'],
+              ['طفلك يتجاوز نوبات الانفعال ويرجع ليومه','نرتّب خطوات تتعاملي فيها مع طفلك وقت الانفعال وبعده، عشان تساعديه يهدأ ويتجاوز الموقف ويرجع لنشاطه بدل ما يظل أثره مستمر على باقي يومكم.']],
       growth:['تشوفي علامة عليه قبل ما ينفجر','يعبر بكلمة أو إشارة قبل ما يوصل للصراخ','الانفجار صار يخلص أسرع','يرجع لحاله بدون ما ياخذ اليوم كله','تحسي إن الموقف جاي قبل ما يصير'] },
   default:{ area:'يومكم',
-      stages:[['نبني وقت ثابت بدون طلبات','وقت كل يوم تكونوا فيه مع بعض، يرتاح عليه يومكم كله.'],
-              ['نمسك النمط','ايش اللي يخلي اليوم الحلو حلو، ونكرره بقصد.'],
-              ['نختار التحدي اللي يستاهل','ونشتغل عليه بخطة خاصة فيه.']],
+      stages:[['تعرفي كيف تدخلي عالم طفلك وتلفتي انتباهه','نبدأ من الأشياء اللي تجذب طفلك، ونتعرف على الطريقة اللي تخليه يتفاعل معاكي ويستمتع بوجودك، عشان تقدري تبني معاه لحظات تواصل.'],
+              ['تعرفي ايش يخلي أيام طفلك أسهل','نراجع الأيام والمواقف اللي يكون فيها طفلك مرتاح ومتفاعل أكثر، ونحدد ايش يساعدها تمشي بشكل أفضل، عشان نقلل المواقف اللي تصعّب يومكم وما يكون اليوم الحلو مجرد صدفة.'],
+              ['نبدأ بالموقف اللي يتعبكم أكثر','نحدد أكثر موقف يسبب لكم ضغط في يومكم، ونبني له خطة بخطوات تناسب طفلك وظروف بيتكم، عشان تعرفي ايش تسوي في الموقف من بدايته، وكيف تتعاملي مع أصعب لحظاته، وايش الخطوة اللي بعدها.']],
       growth:['في وقت كل يوم تكونوا فيه مع بعض بدون طلبات','يومه صار متوقع أكثر','يطلب منك أشياء أكثر من قبل','المواقف الصعبة في اليوم صارت أقل','صار في وقت في يومك لنفسك'] }
 };
 const STAGE_LABELS = ['أول شي','بعدها','وبعدها'];
@@ -692,8 +700,8 @@ function curriculumHTML(key){
         ${c.stages.map(([t,d],i)=>`<li class="lp-stage"><span class="lp-stage-k">${STAGE_LABELS[i]}</span><h3>${t}</h3><p>${d}</p></li>`).join('')}
       </ol>
       <div class="lp-growth">
-        <h3>اتجاه النمو</h3>
-        <p class="lp-growth-sub">علامات إن الخطة ماشية في الاتجاه الصح. مو جدول، ومو لازم تجي بالترتيب.</p>
+        <h3>اتجاه النمو (مثال)</h3>
+        <p class="lp-growth-sub">هذي أمثلة. اتجاه النمو لطفلك يتحدد من إجاباتك على الأسئلة، ويختلف من طفل لطفل، وما يمشي بجدول.</p>
         <ul>${g}</ul>
       </div>
       <p class="lp-pull lp-pull-c">الترتيب والخطوات مبنية على طفلك أنتي.</p>`;
@@ -1389,6 +1397,9 @@ const CTA_LABEL = "احجزي مكانك في قائمة الانتظار";
 /* Owner placeholders like [للتأكيد: ...] are shown as-is, highlighted. */
 const markTbc = (h)=> h.replace(/\[للتأكيد:[^\]]*\]/g, m=>`<span class="tbc">${m}</span>`);
 
+/* keep the last two words of each headline line together (no single orphan word) */
+const headHTML = (h)=> String(h).split('<br>').map(seg=>seg.replace(/ ([^ ]+)$/,'\u00a0$1')).join('<br>');
+
 function problemHTML(key, sitFree){
   const f = FOCUS[key] || FOCUS.default;
   const mine = sitFree ? `<p class="lp-p lp-herline">${G_FREE_LINE(escapeHtml(sitFree))}</p>` : '';
@@ -1398,7 +1409,7 @@ function problemHTML(key, sitFree){
 function landingHTML(ctx){
   const c = Object.assign({key:'default', sub:'standard', sitFree:'', q15:''}, ctx||{});
   const f = FOCUS[c.key] || FOCUS.default;
-  const sub = SUBS[c.sub] || SUBS.standard;
+  const sub = f.sub || SUBS[c.sub] || SUBS.standard;
   // every CTA opens the on-page waitlist form (CONFIG.waitlistUrl is legacy and unused)
   const cta = (cls='') => `<button type="button" class="lp-cta ${cls}" data-wl>${CTA_LABEL}</button>`;
   const chk = `<svg viewBox="0 0 24 24" fill="none" stroke="#008C95" stroke-width="2.6" stroke-linecap="round" stroke-linejoin="round"><path d="M20 6 9 17l-5-5"/></svg>`;
@@ -1465,7 +1476,7 @@ function landingHTML(ctx){
       </div>
       <div class="lp-hero-inner">
         <div class="lp-eyebrow">${SVG.ripple('rp')}<span>الخطة الحية من مدار البيت</span></div>
-        <h1 class="lp-head" id="lp-head">${f.head}</h1>
+        <h1 class="lp-head" id="lp-head">${headHTML(f.head)}</h1>
         <p class="lp-support" id="lp-sub">${sub}</p>
         ${cta('on-photo hero')}
       </div>
@@ -1614,8 +1625,8 @@ function landingHTML(ctx){
 function applyLanding(key, sub, sitFree){
   const f = FOCUS[key] || FOCUS.default;
   const h = document.getElementById('lp-head'), s = document.getElementById('lp-sub'), p = document.getElementById('lp-problem');
-  if(h) h.innerHTML = f.head;
-  if(s) s.innerHTML = SUBS[sub] || SUBS.standard;
+  if(h) h.innerHTML = headHTML(f.head);
+  if(s) s.innerHTML = f.sub || SUBS[sub] || SUBS.standard;
   if(p) p.innerHTML = problemHTML(key, sitFree||'');
   const cu = document.getElementById('lp-curriculum');
   if(cu) cu.innerHTML = curriculumHTML(key);

diff --git a/agency-run/copy.md b/agency-run/copy.md
@@ -502,3 +502,9 @@ Source: `source/curriculum_answers_v2.md` (client). Stages, no weeks or dates. T
 - Time objection: each step is tied to something she already does, and no step takes more than 10 minutes.
 - Light wording fixes to the client draft: «موجهة لك» → «يطلب منك… مو بس يسحب يدك»; «الأكل الآمن» → «أكلاته المعروفة»; «التسليم» → «إطفاء الآيباد»; «صوت أقل» → «هدوء أكثر».
 - §C items (timeline per area, days to first plan, direct messaging, background/numbers, dates/founding price) are NOT on the page.
+
+## ROUND 4: client cards + headlines (applied)
+- Source: `source/cards_and_headlines_v1.txt` (client). The stage cards and the headlines are hers, verbatim, apart from these typo fixes: «الخارجه» → «الطلعة», «يجربه» → «يجربها», «اهلك» → «أهلك», «اطفائه / اطفاء الايباد» → «إطفائه / إطفاء الآيباد», «يومكم ما يكون» → «يومكم وما يكون», and double spaces removed.
+- The hero subheadline is now set per situation (FOCUS[x].sub). The subheadlines by weakest area (SUBS) are only a fallback now.
+- Headline rule: no line ends with a comma. Each comma in a headline became a line break (<br>), the comma was removed, and the headline ends with a full stop. The last two words of each line are kept together so no single word ends up alone on a line.
+- اتجاه النمو is now «اتجاه النمو (مثال)», with the line «هذي أمثلة. اتجاه النمو لطفلك يتحدد من إجاباتك على الأسئلة، ويختلف من طفل لطفل، وما يمشي بجدول.»
